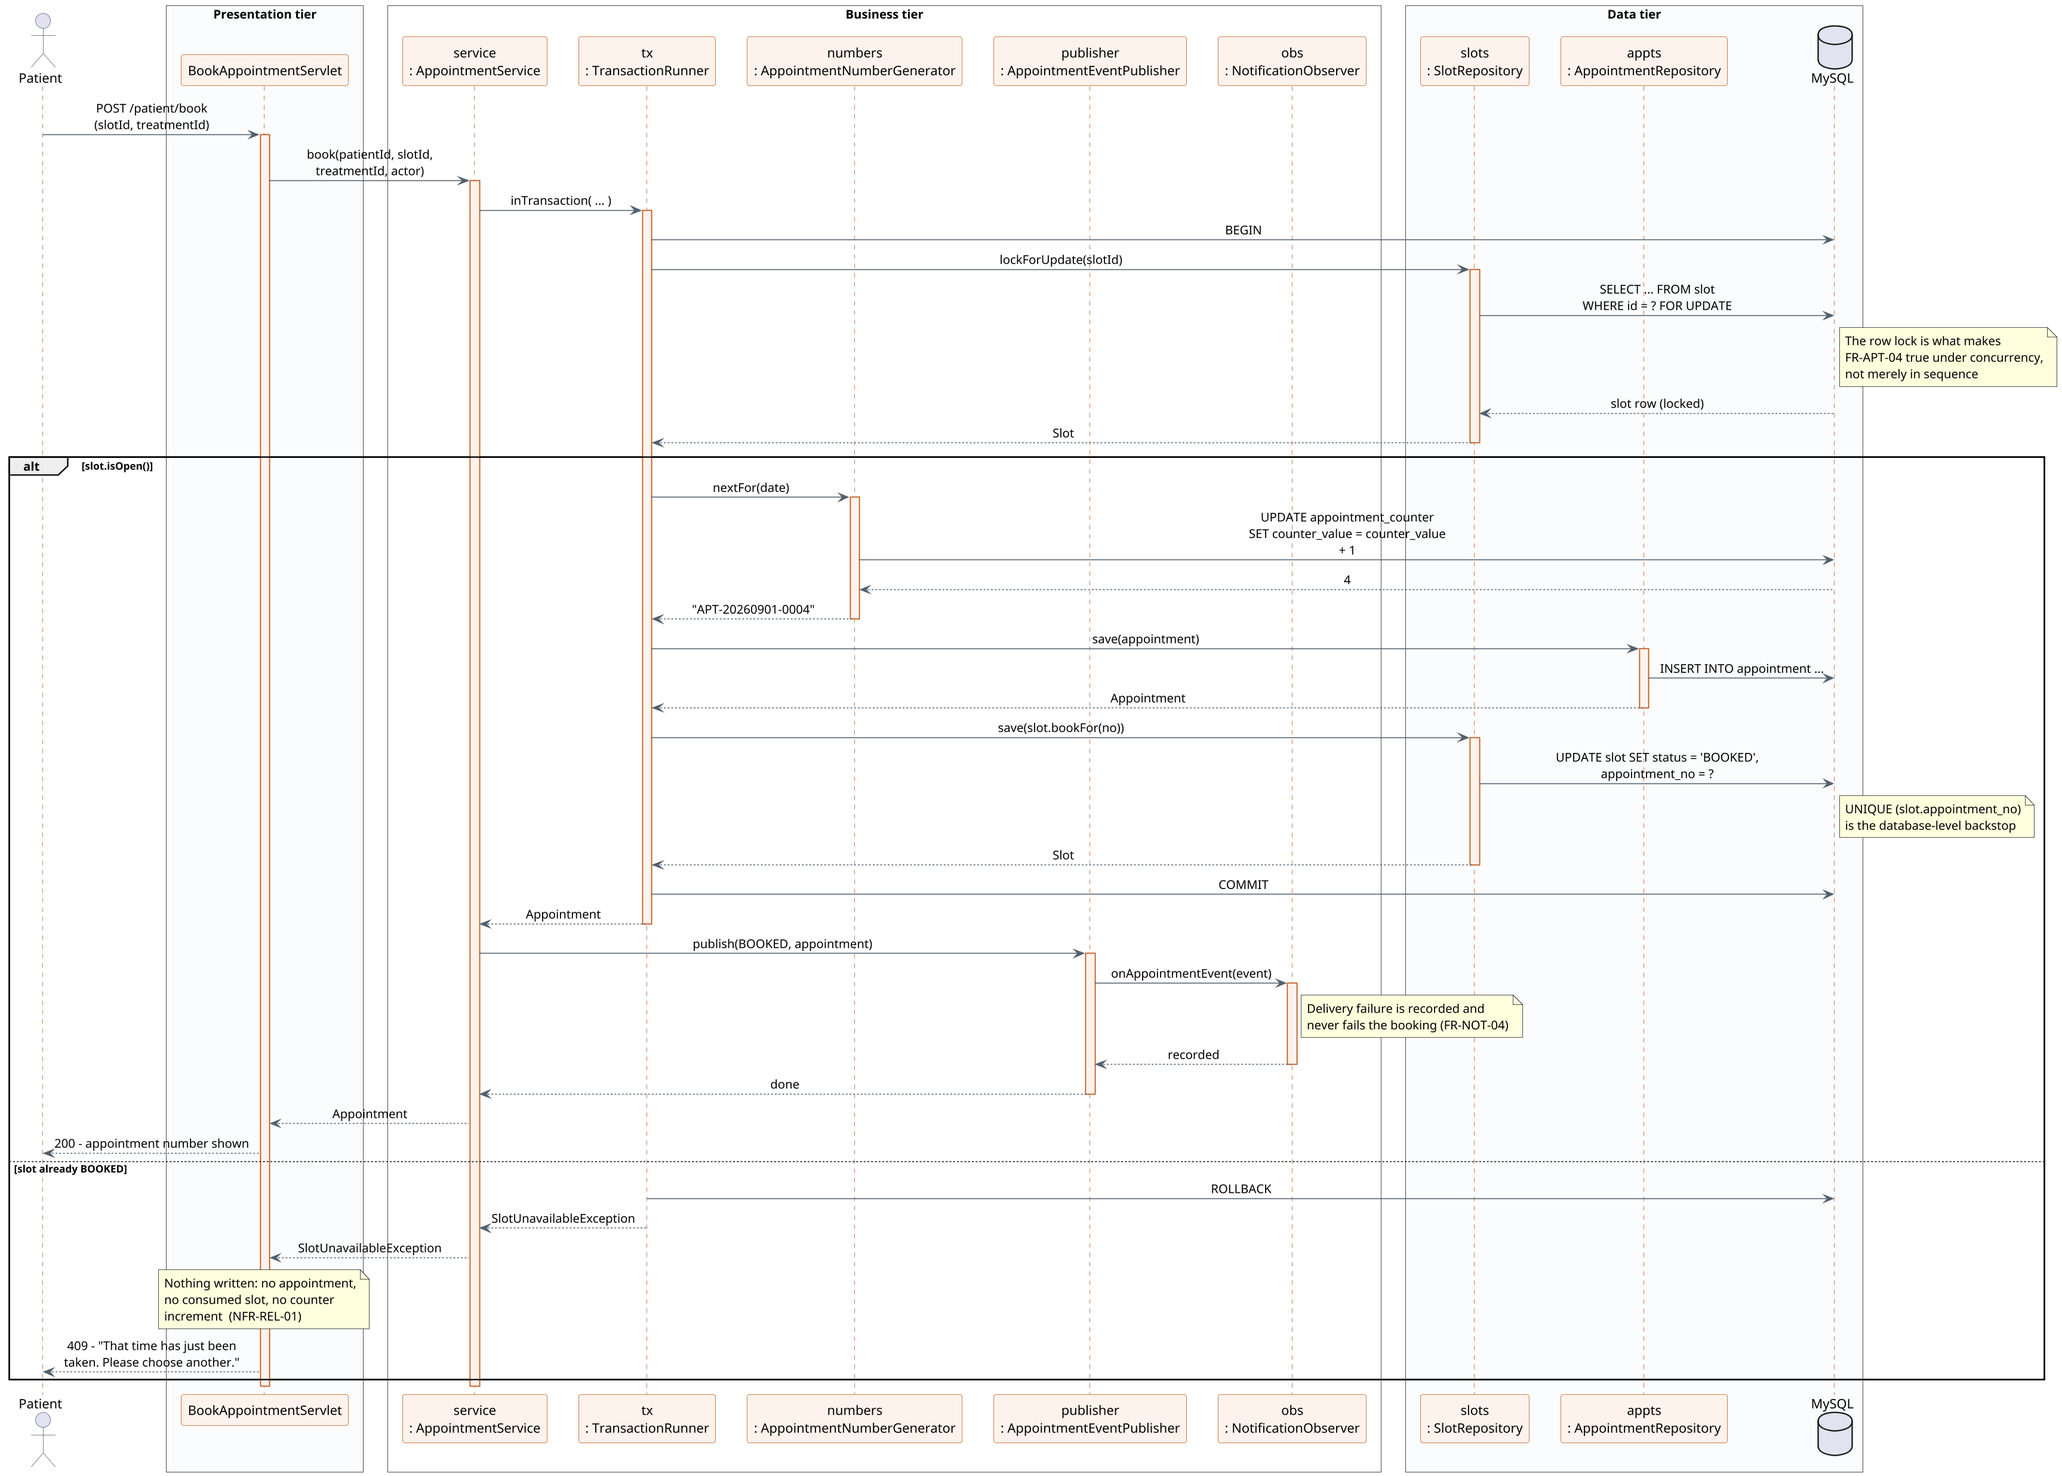
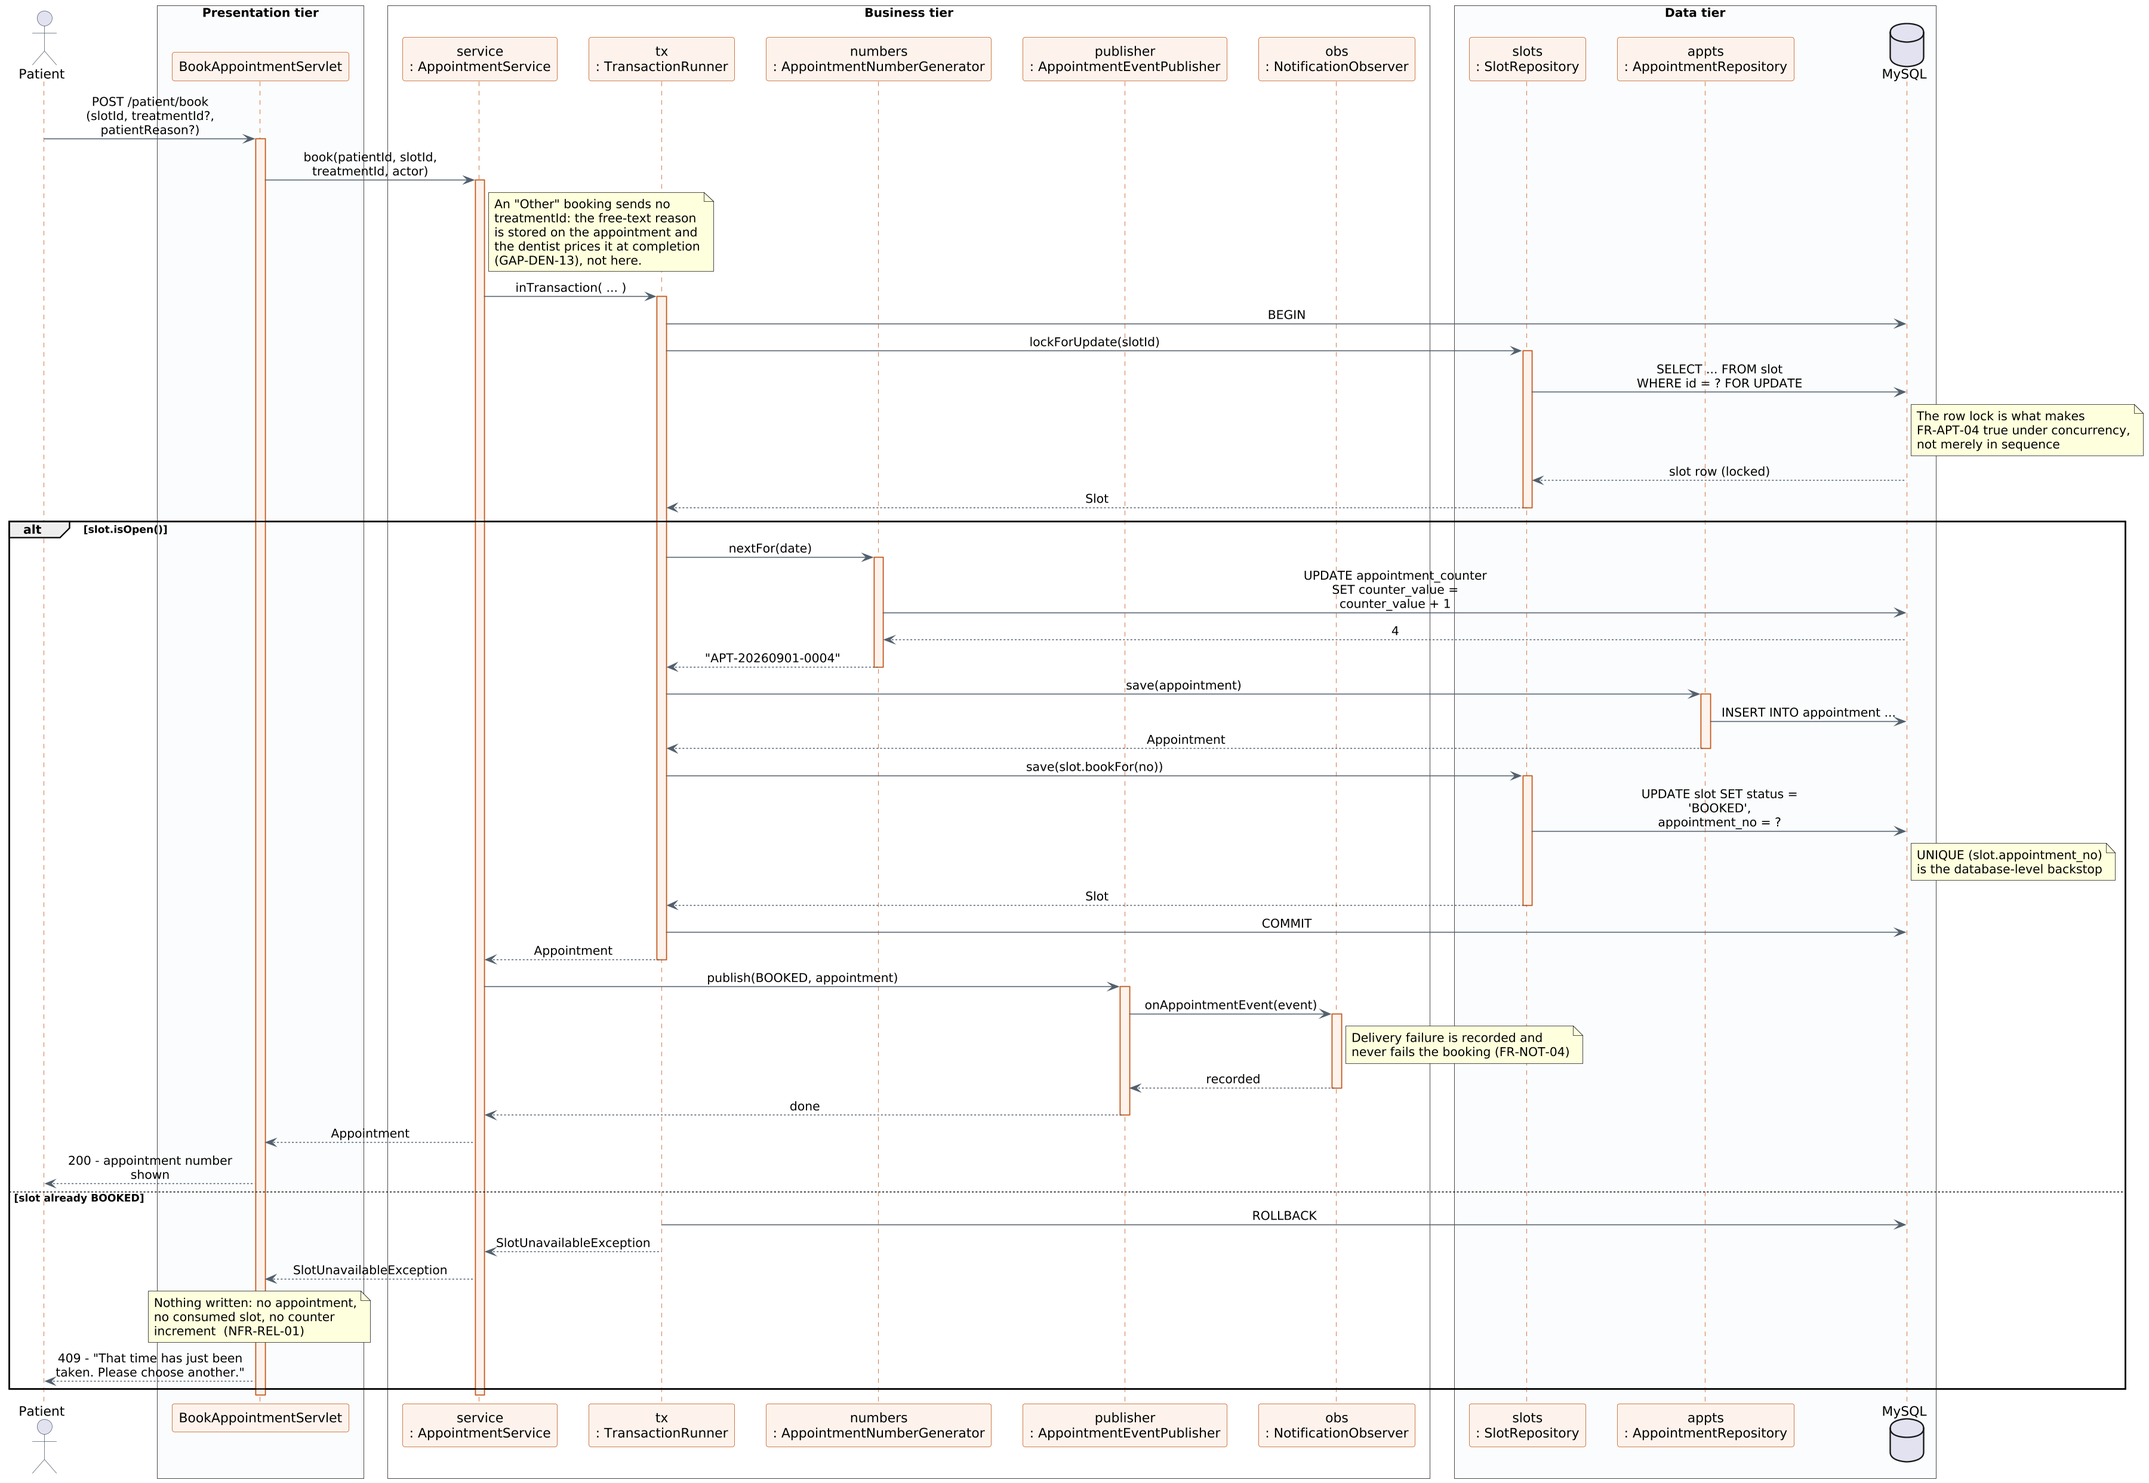
docs(diagrams): regenerate use-case, class, sequence and ER for v1.0.4
Sources updated for everything built since v1.0.1: per-role help, pricing
tab + live shares, dentist profile, readable person/account numbers,
username sign-in, anonymous general concerns, ad-hoc treatment prices.
New tables (dentist_treatment, person_counter, clinic_setting) and columns
(username, account_no, patient_no, phone, patient_reason, custom_price,
diagnosis_details) on the ER; PortalChooser removed; assumption 10
reversed (general concerns are anonymous by design). PNGs re-rendered
(PlantUML locally, mermaid.ink for Mermaid); untouched diagrams left
byte-identical.

diff --git a/modular/docs/class-diagram.md b/modular/docs/class-diagram.md
@@ -123,12 +123,17 @@ The entities, grouped by the module that owns them. This is the diagram the asse
 "class diagram" criterion refers to.
 
 ```mermaid
+%% Sunrise Dental Clinic - class design: 2-domain-model
+%% Source of truth: modular/docs/class-diagram.md
+
 classDiagram
     direction TB
 
     namespace access {
         class UserAccount {
             -uid : String
+            -accountNo : String
+            -username : String
             -email : String
             -passwordHash : String
             -displayName : String
@@ -230,6 +235,8 @@ classDiagram
             -contactNumber : String
             -email : String
             -dob : LocalDate
+            -diagnosisDetails : String
+            -patientNo : String
             +getId() String
             +getName() String
             +getContactNumber() String
@@ -243,6 +250,7 @@ classDiagram
             -userUid : String
             -name : String
             -specialization : String
+            -phone : String
             -consultationFee : double
             -active : boolean
             +getConsultationFee() double
@@ -297,12 +305,14 @@ classDiagram
             -time : LocalTime
             -status : AppointmentStatus
             -diagnosis : String
+            -patientReason : String
+            -customPrice : double
             -createdByUid : String
             -createdByRole : Role
             -createdAt : Instant
             +getAppointmentNo() String
             +getDiagnosis() String
-            +complete(diagnosis) void
+            +complete(diagnosis, customPrice) void
             +cancel() void
             +canTransitionTo(status) boolean
         }
@@ -466,6 +476,9 @@ Two hierarchies. The servlet hierarchy removes the duplication of four sign-in p
 hierarchy removes 28 conditionals.
 
 ```mermaid
+%% Sunrise Dental Clinic - class design: 3-access
+%% Source of truth: modular/docs/class-diagram.md
+
 classDiagram
     direction TB
 
@@ -491,6 +504,21 @@ classDiagram
             #viewName()* String
             #allowsSelfRegistration() boolean
             #auditFailedAttempts() boolean
+            -usernamePortal() boolean
+        }
+        class StaffPortalServlet {
+            +doGet(req, res) void
+        }
+        class RegisterServlet {
+            +doGet(req, res) void
+            +doPost(req, res) void
+        }
+        class HelpServlet {
+            +doGet(req, res) void
+        }
+        class LogoutServlet {
+            +doGet(req, res) void
+            +doPost(req, res) void
         }
         class PatientLoginServlet {
             #acceptedRole() Role
@@ -510,9 +538,6 @@ classDiagram
             #viewName() String
             #auditFailedAttempts() boolean
         }
-        class PortalChooserServlet {
-            +doGet(req, res) void
-        }
         class AuthenticationFilter {
             -PUBLIC_PREFIXES : List~String~$
             +doFilter(req, res, chain) void
@@ -526,14 +551,15 @@ classDiagram
             -users : UserRepository
             -hasher : PasswordHasher
             -attempts : LoginAttemptService
-            +login(email, password) LoginResult
+            +login(identifier, password) LoginResult
             +unlock(email) void
         }
         class UserAccountFactory {
             -users : UserRepository
             -patients : PatientRepository
             -dentists : DentistRepository
-            +create(role, details) UserAccount
+            +createStaff(email, password, displayName, role, username) UserAccount
+            +validUsername(username) String
         }
         class PasswordHasher {
             -ITERATIONS : int$
@@ -556,6 +582,7 @@ classDiagram
             +role()* Role
             +homePath()* String
             +loginPath()* String
+            +navigation() List~NavItem~
             +permits(action)* boolean
         }
         class PatientPolicy
@@ -570,9 +597,13 @@ classDiagram
             REGISTER_PATIENT
             PUBLISH_AVAILABILITY
             RECORD_DIAGNOSIS
+            COMPLETE_TREATMENT
+            EDIT_OWN_PROFILE
+            RAISE_CONCERN
             ISSUE_BILL
             READ_REPORTS
             MANAGE_ACCOUNTS
+            MANAGE_CLINIC_SETTINGS
             READ_AUDIT
         }
         class ClinicPrincipal {
@@ -588,12 +619,14 @@ classDiagram
         class UserRepository {
             <<interface>>
             +findByEmail(email) Optional~UserAccount~
+            +findByUsername(username) Optional~UserAccount~
             +findStaff() List~UserAccount~
         }
         class UserDao {
             -db : Database
             +save(user) UserAccount
             +findByEmail(email) Optional~UserAccount~
+            +findByUsername(username) Optional~UserAccount~
         }
     }
 
@@ -603,7 +636,10 @@ classDiagram
     AbstractLoginServlet <|-- ReceptionLoginServlet
     AbstractLoginServlet <|-- DentistLoginServlet
     AbstractLoginServlet <|-- AdminLoginServlet
-    PageServlet <|-- PortalChooserServlet
+    PageServlet <|-- StaffPortalServlet
+    PageServlet <|-- RegisterServlet
+    PageServlet <|-- HelpServlet
+    PageServlet <|-- LogoutServlet
 
     RolePolicy <|-- PatientPolicy
     RolePolicy <|-- ReceptionPolicy
@@ -649,6 +685,9 @@ Shown in full because it is the module that demonstrates the architecture: prese
 and data inside one feature, with no sibling module's internals reached into.
 
 ```mermaid
+%% Sunrise Dental Clinic - class design: 4-appointments
+%% Source of truth: modular/docs/class-diagram.md
+
 classDiagram
     direction TB
 
@@ -684,7 +723,7 @@ classDiagram
             +findByNo(no) Appointment
             +findForPatient(patientId) List~Appointment~
             +findForDentist(dentistId, date) List~Appointment~
-            +complete(no, diagnosis, dentistId) Appointment
+            +complete(no, diagnosis, customPrice) Appointment
             +cancel(no, actor) Appointment
         }
         class AppointmentNumberGenerator {
@@ -746,6 +785,8 @@ classDiagram
         class AppointmentDetailResponse {
             <<record>>
             +appointmentNo : String
+            +treatmentId : String
+            +patientReason : String
             +diagnosis : String
             +patientNotes : List~PatientNoteResponse~
         }
@@ -809,6 +850,9 @@ authorised for one and not the other. Reception and the administrator receive
 Both modules exist to show the same idea: behaviour that varies is an object, not a branch.
 
 ```mermaid
+%% Sunrise Dental Clinic - class design: 5-billing-notifications
+%% Source of truth: modular/docs/class-diagram.md
+
 classDiagram
     direction TB
 
@@ -818,8 +862,8 @@ classDiagram
             -appointments : AppointmentRepository
             -pricing : BillingStrategy
             -split : RevenueSplitStrategy
-            -serviceCharge : double
-            +generateBill(no, issuedByUid) Bill
+            -serviceCharge : Supplier~BigDecimal~
+            +issue(no, issuedByUid) Bill
             +findForAppointment(no) Optional~Bill~
         }
         class BillingStrategy {
@@ -834,7 +878,8 @@ classDiagram
             +split(breakdown)* RevenueSplit
         }
         class DefaultRevenueSplitStrategy {
-            -dentistShare : double
+            -dentistShare : Supplier~BigDecimal~
+            -receptionistShare : Supplier~BigDecimal~
             +split(breakdown) RevenueSplit
         }
     }
@@ -1014,7 +1059,7 @@ Recorded because the marking criteria ask for diagrams "supported by relevant as
 | 7 | The audit trail outlives the accounts it names | `AuditEvent → UserAccount` is `0..1`, not `1` |
 | 8 | Medical notes are written by the patient, not by staff | `PatientNote` has no author field — the owning `patientId` *is* the author. A staff-authored clinical note is `appointment.diagnosis`, a separate field on a separate entity |
 | 9 | A note applies to the patient, not to one visit | `PatientNote` hangs off `Patient`, not `Appointment`, so an allergy declared once is visible at every future appointment |
-| 10 | A complaint is attributed, never anonymous | `Complaint` holds `patientId` as a required field. Anonymity was rejected because the clinic cannot investigate what it cannot follow up |
+| 10 | A named complaint is attributed; a general concern is anonymous | `Complaint` holds `patientId` for a named concern so it can be followed up. A general concern about the clinic names no dentist and stores NULL identities precisely because there is nobody to follow up with — only the account itself to act on |
 | 11 | Only the state and resolution of a complaint are staff-writable | `detail` has no setter; `resolve()` writes only `status`, `resolution` and `reviewedByUid` (**FR-ADM-55**) |
 | 12 | A rating belongs to a visit, not to a dentist | `DentistReview` keys on `appointmentNo`, so a second visit is a second rating and the mean reflects visits rather than opinions |
 | 13 | The dentist's view of reviews is a different type, not a filtered one | `RatingSummary` is a separate record rather than `DentistReview` with fields nulled — a nulled field can be un-nulled by a later edit; a missing field cannot |
@@ -1054,4 +1099,12 @@ Recorded because the marking criteria ask for diagrams "supported by relevant as
 
 Each diagram is Mermaid, which GitHub renders inline, so a design change is a reviewable text
 diff. Standalone sources are in [`class-diagram/`](class-diagram/) alongside rendered PNGs for
-the report.
+the report. Render locally with the Mermaid CLI (needs a Chrome binary for its headless
+browser; without one, `https://mermaid.ink` renders the same sources — minify to fit URL
+limits on the two largest). The PlantUML use-case and sequence sources render with
+`java -jar plantuml.jar`, which needs no extra tooling:
+
+```bash
+java -jar plantuml.jar -o renders/use-case use-case/*.puml
+java -jar plantuml.jar -o renders/sequence sequence/*.puml
+```

diff --git a/modular/docs/er-diagram.md b/modular/docs/er-diagram.md
@@ -56,10 +56,15 @@ Relationship lines carry meaning:
   the application's responsibility. See §4.
 
 ```mermaid
+%% Sunrise Dental Clinic - entity relationship diagram
+%% Solid = FOREIGN KEY enforced.  Dotted = uid reference, no constraint.
+
 erDiagram
     USER_ACCOUNT {
         varchar uid PK
-        varchar email UK "unique, used as the login"
+        varchar account_no UK "readable YYMMDD+ROLE+NNNN"
+        varchar username UK "staff sign-in, NULL for patients"
+        varchar email UK "unique, the patient login"
         varchar password_hash "PBKDF2 iterations:salt:hash"
         varchar display_name
         enum role "PATIENT RECEPTIONIST DENTIST ADMIN"
@@ -77,13 +82,16 @@ erDiagram
         varchar contact_number
         varchar email
         date dob
+        text diagnosis_details "the patient's own history"
+        varchar patient_no UK "readable YYMMDDPATNNNN"
     }
 
     DENTIST {
-        varchar id PK
+        varchar id PK "YYMMDDDENNNNN for new dentists"
         varchar user_uid FK "null until a login is issued"
         varchar name
         varchar specialization
+        varchar phone "public, edited on the profile"
         decimal consultation_fee "charged per appointment"
         bool active
     }
@@ -137,6 +145,8 @@ erDiagram
         time appointment_time
         enum status "CONFIRMED COMPLETED BILLED CANCELLED"
         text diagnosis "CONFIDENTIAL: treating dentist and patient only"
+        text patient_reason "the Other booking in own words"
+        decimal custom_price "dentist-entered, NULL for catalog visits"
         varchar created_by_uid "who booked it"
         enum created_by_role
         timestamp created_at
@@ -174,8 +184,8 @@ erDiagram
 
     COMPLAINT {
         varchar id PK
-        varchar patient_id FK "who raised it"
-        varchar dentist_id FK "who it names - never shown to them"
+        varchar patient_id FK "who raised it, NULL when anonymous"
+        varchar dentist_id FK "who it names - never shown to them, NULL for general"
         varchar appointment_no FK "optional, the visit it concerns"
         enum category "CONDUCT CLINICAL_CONCERN WAIT_TIME BILLING OTHER"
         text detail "the patient's own account, never edited by staff"
@@ -212,12 +222,29 @@ erDiagram
         int counter_value "last number issued that day"
     }
 
+    DENTIST_TREATMENT {
+        varchar dentist_id PK,FK "what this dentist performs"
+        varchar treatment_id PK,FK
+    }
+
+    PERSON_COUNTER {
+        varchar seq_key PK "ROLE-yyyyMMdd, e.g. PAT-20260904"
+        int counter_value "last person number issued"
+    }
+
+    CLINIC_SETTING {
+        varchar setting_key PK "identity, revenue shares, charges"
+        varchar setting_value "edited on admin screens"
+    }
+
     USER_ACCOUNT |o--o| PATIENT  : "portal account for"
     USER_ACCOUNT |o--o| DENTIST  : "staff login for"
 
     DENTIST      ||--o{ DENTIST_SESSION : "works"
     DENTIST_SESSION ||--o{ SLOT         : "divides into"
     SLOT         |o--o| APPOINTMENT     : "booked as"
+    DENTIST      ||--o{ DENTIST_TREATMENT : "offers"
+    DENTIST_TREATMENT }o--|| TREATMENT   : "lists"
 
     PATIENT      ||--o{ PATIENT_NOTE : "declares"
     PATIENT      ||--o{ COMPLAINT : "raises"

diff --git a/modular/docs/sequence-diagrams.md b/modular/docs/sequence-diagrams.md
@@ -44,7 +44,8 @@ Shows the portal role check that makes four sign-in pages safe.
 The `alt` fragment is the point of the diagram. On the success branch the servlet asks the role's
 own `RolePolicy` for its home path and redirects. On the other branch — **correct password, wrong
 portal** — it re-renders with the *same* generic message and comparable timing, so a portal cannot
-be used to discover which role an email belongs to (**FR-AUTH-03**).
+be used to discover which role an identity belongs to (**FR-AUTH-03**). Staff sign in with
+a username, patients with an email; the lookup tries the username first and falls back to email.
 
 Worth noticing what the servlet does *not* do: it never compares a password, never reads
 `user_account`, and never decides where to send anyone. `AuthService` verifies, `PasswordHasher`

diff --git a/modular/docs/use-case-diagram.md b/modular/docs/use-case-diagram.md
@@ -27,7 +27,7 @@ Derived from [`srs/srs.md`](srs/srs.md) and the four role documents, and consist
 | 2a | [`2a-reception-register.puml`](use-case/2a-reception-register.puml) | The register and publishing availability |
 | 2b | [`2b-reception-booking.puml`](use-case/2b-reception-booking.puml) | Booking on behalf, and billing |
 | 3 | [`3-dentist.puml`](use-case/3-dentist.puml) | Schedule, medical notes, treatment |
-| 4a | [`4a-admin-manage.puml`](use-case/4a-admin-manage.puml) | Reports and accounts |
+| 4a | [`4a-admin-manage.puml`](use-case/4a-admin-manage.puml) | Reports, accounts and pricing |
 | 4b | [`4b-admin-governance.puml`](use-case/4b-admin-governance.puml) | Concerns and reviews |
 
 **Why nine diagrams and not one.** A single frame holding every use case was drawn first and was
